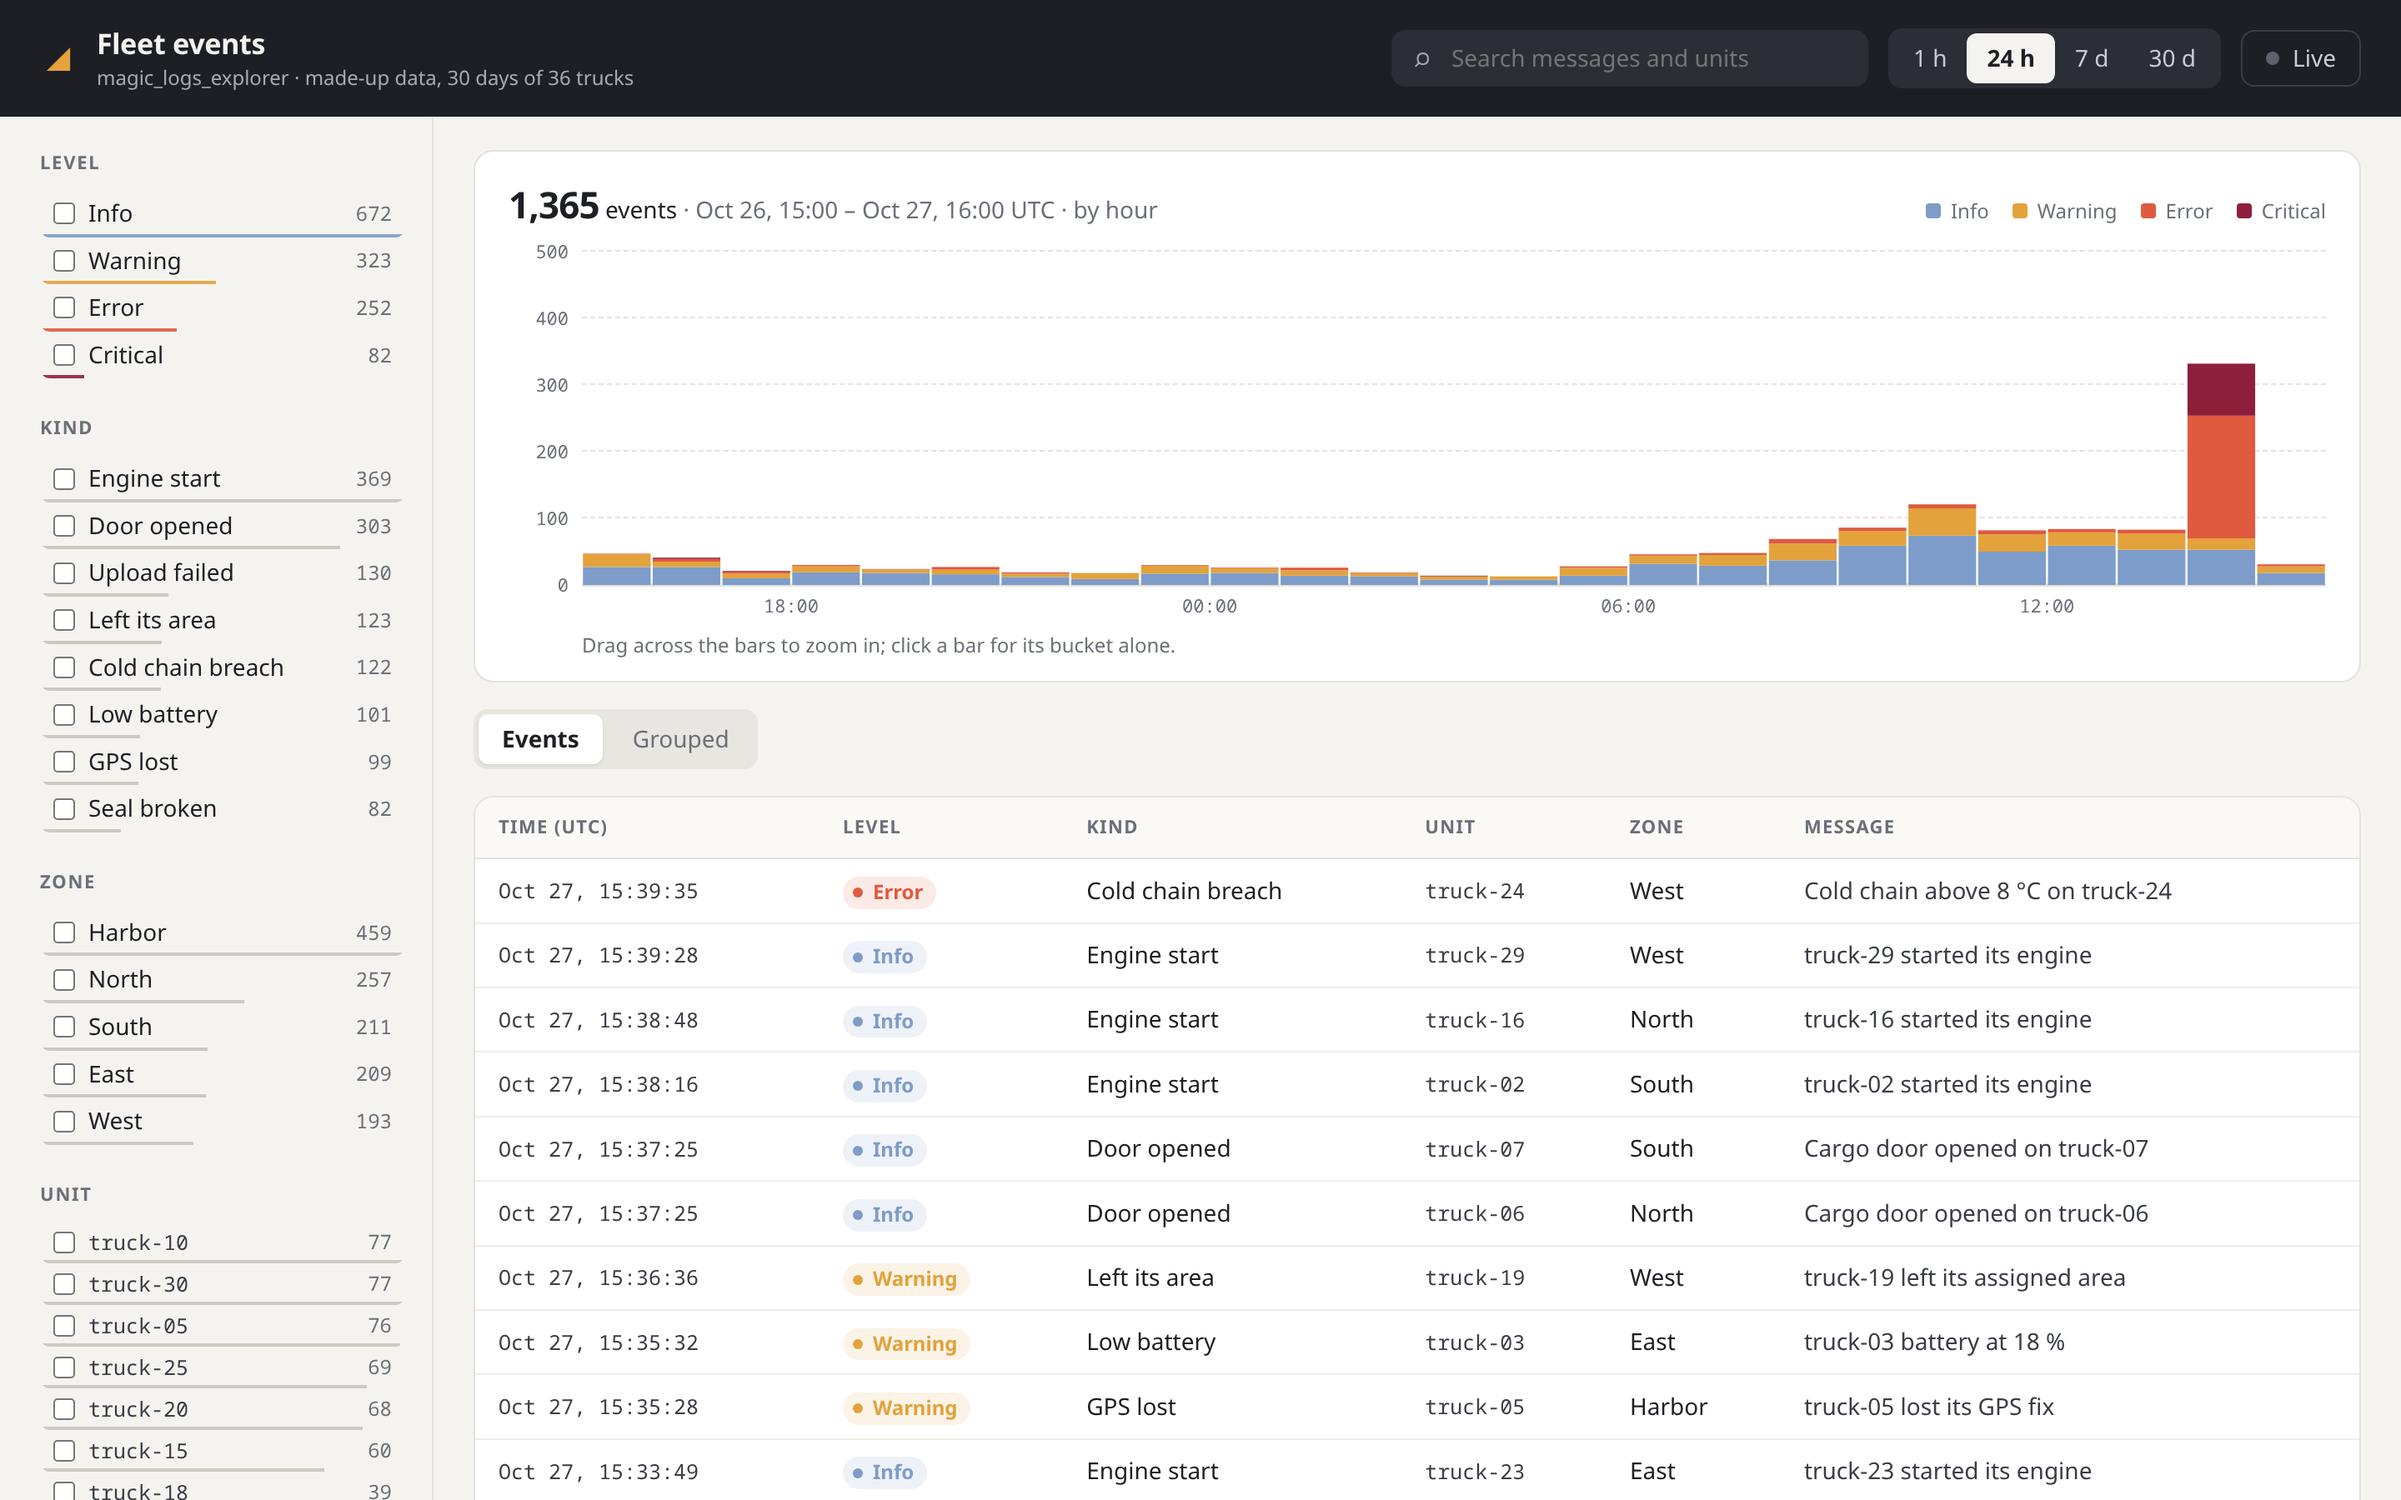
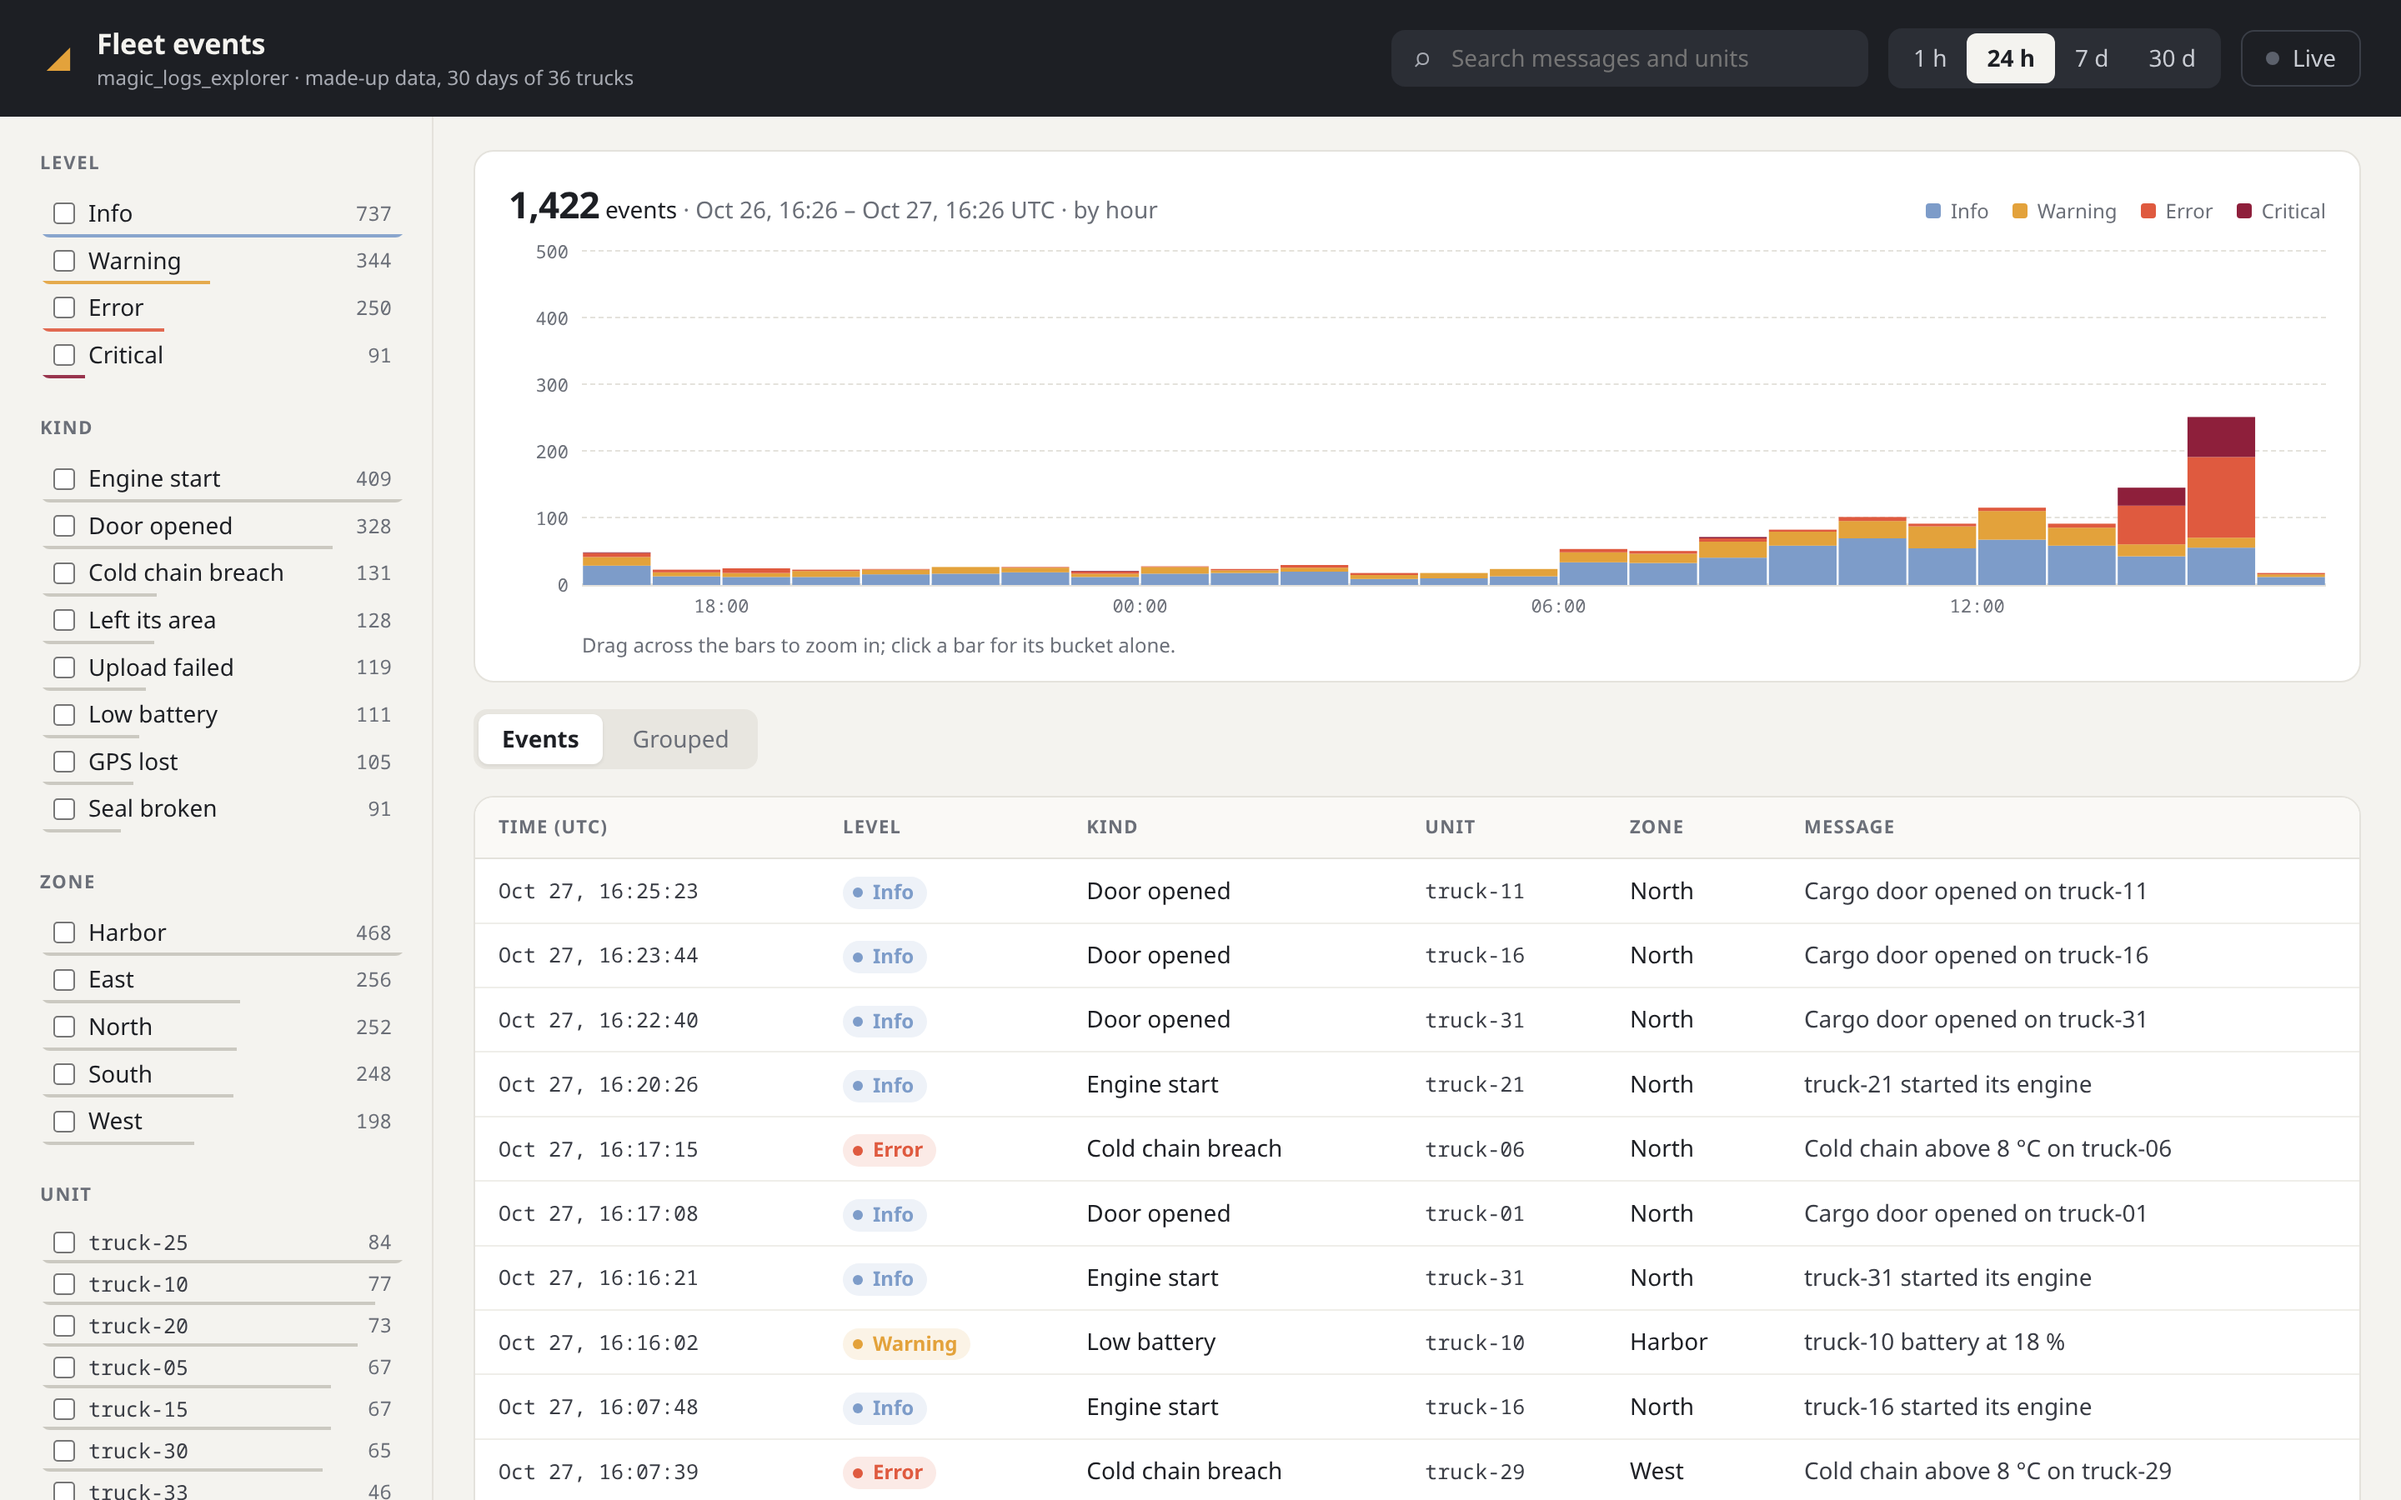
Review round 11: the last documentation errors
A whole-repository pass found nothing to block the release: every CI
check and the newcomer's path (README, the fleet, the demo) pass. What
it found in the documents:

- the explorer README's facets fetcher sent the facet names over the
  question's chosen values; they go as facets
- the window's count is a facet's sum, not the histogram's (whose
  whole buckets may reach past it); the demo's headline says so
- the README's links are absolute, as crates.io resolves them
- the cost of groups over a day is the exact one
- the fleet README's curl asks the last day, not a fixed month
- the contract tests skip in a packaged copy, which has no explorer

diff --git a/explorer/demo/Demo.vue b/explorer/demo/Demo.vue
@@ -63,6 +63,15 @@ const label = (s: string) => kindNames[s] ?? s
 
 // What the bars count: every filter applies (a facet's own count leaves
 // out its own field's filter).
+// The window's count, exactly: the level facet's sum — of the chosen
+// levels when some are, as the facet counts every level whatever is chosen
+// of it. (The bars count whole buckets, which may reach past the window.)
+const total = computed(() => {
+  const levelsChosen = explorer.fields.level.value
+  return answers.facets.value
+    .filter((f) => f.field === 'level' && (!levelsChosen.length || levelsChosen.includes(f.value ?? '')))
+    .reduce((n, f) => n + f.count, 0)
+})
 const stepNames: Record<string, string> = {
   minute: 'minute',
   fiveMinutes: 'five minutes',
@@ -162,9 +171,10 @@ const hovered = ref<number | null>(null)
                  from the start of the first bucket, which is counted whole. -->
             <div class="chart-head">
               <div>
-                <strong>{{ number.format(geometry.bars.reduce((n, b) => n + b.total, 0)) }}</strong> events
+                <strong>{{ number.format(total) }}</strong> events
                 <span class="muted">
-                  · {{ moment.format(geometry.range.from) }} – {{ moment.format(geometry.range.to) }} UTC
+                  · {{ moment.format(explorer.range.value.from) }} –
+                  {{ moment.format(explorer.range.value.to) }} UTC
                   <template v-if="answers.bucketsAnswer.value">
                     · by {{ stepNames[answers.bucketsAnswer.value.step.name] }}
                   </template>

diff --git a/magic_logs/tests/explorer.rs b/magic_logs/tests/explorer.rs
@@ -446,6 +446,10 @@ async fn the_json_an_explorer_reads_is_the_contract(pool: PgPool) {
         env!("CARGO_MANIFEST_DIR"),
         "/../explorer/src/core/contract/fixtures/answers.ts"
     );
+    // A packaged copy of the crate has no explorer beside it.
+    if !std::path::Path::new(concat!(env!("CARGO_MANIFEST_DIR"), "/../explorer")).exists() {
+        return;
+    }
     if std::env::var_os("UPDATE_CONTRACT").is_some() {
         std::fs::create_dir_all(std::path::Path::new(path).parent().unwrap()).unwrap();
         std::fs::write(path, &text).unwrap();

diff --git a/magic_logs/src/query.rs b/magic_logs/src/query.rs
@@ -637,6 +637,13 @@ mod json {
             env!("CARGO_MANIFEST_DIR"),
             "/../explorer/src/core/contract/rows.ts"
         );
+        // A packaged copy of the crate has no explorer beside it.
+        if !std::path::Path::new(path)
+            .parent()
+            .is_some_and(|p| p.exists())
+        {
+            return;
+        }
         if std::env::var_os("UPDATE_CONTRACT").is_some() {
             std::fs::write(path, &text).unwrap();
         }

diff --git a/README.md b/README.md
@@ -40,7 +40,7 @@ let bars: Vec<Bucket> = histogram(&Event::SPEC, &filter, Duration::days(1))?
     .await?;
 ```
 
-And [`magic_logs_explorer`](explorer/), the Vue 3 side without its looks:
+And [`magic_logs_explorer`](https://github.com/rsansores/magic_logs/tree/main/explorer/), the Vue 3 side without its looks:
 the window, the facets, the histogram's geometry and its brush, the pages
 — state in your URL, drawn by your own components.
 
@@ -58,7 +58,7 @@ the window, the facets, the histogram's geometry and its brush, the pages
   hypertable's unique keys must). Rows it already holds are moved into
   chunks by the migration, which holds the table locked for as long as
   that takes and needs room for a second copy while it does;
-  [operating it](HOW_IT_WORKS.md#operating-it) says what follows.
+  [operating it](https://github.com/rsansores/magic_logs/blob/main/HOW_IT_WORKS.md#operating-it) says what follows.
 
 ## Why
 
@@ -101,7 +101,7 @@ newest first, from an index.
   late recounts only the buckets it fell in.
 - **No retention of its own.** The counts are refreshed over all of
   history, so dropping old rows drops their counts at the next refresh:
-  drop both, or neither. [Operating it](HOW_IT_WORKS.md#operating-it) has
+  drop both, or neither. [Operating it](https://github.com/rsansores/magic_logs/blob/main/HOW_IT_WORKS.md#operating-it) has
   the rest.
 
 ## Defining a table
@@ -171,7 +171,7 @@ and one per `indexed` field and the `top`), the columnstore and its
 policy, the four counts with their refresh and compression policies —
 and, for each of the five relations (the table and its counts), whatever
 `govern` writes. Run it from your own
-migrations; the [golden copy](magic_logs/tests/golden/migration.sql) shows
+migrations; the [golden copy](https://github.com/rsansores/magic_logs/blob/main/magic_logs/tests/golden/migration.sql) shows
 what it writes.
 
 ```rust
@@ -194,7 +194,7 @@ it in parallel workers: a setting read as `(SELECT current_setting(…))`, a
 function marked `STABLE PARALLEL SAFE`. Measured on a month of hourly
 counts, four facets took 4.1 s through a predicate evaluated per row in one
 worker, and 0.46 s through one evaluated once, in parallel
-([how it works](HOW_IT_WORKS.md#governing)).
+([how it works](https://github.com/rsansores/magic_logs/blob/main/HOW_IT_WORKS.md#governing)).
 
 ## Asking
 
@@ -272,18 +272,18 @@ five warm runs.
 A day of rows is 4.2 GB before compression; the thirty days hold 17 GB in
 all, two uncompressed. What stays slow: a one-hour window at one-minute
 bars reads the rows (~270 ms), and a page deep inside compressed history
-decompresses its chunk (~2 s). [How it works](HOW_IT_WORKS.md#what-it-costs)
+decompresses its chunk (~2 s). [How it works](https://github.com/rsansores/magic_logs/blob/main/HOW_IT_WORKS.md#what-it-costs)
 has the rest, and what each number was before the fix it measures.
 
 ## Learn more
 
-- [How it works](HOW_IT_WORKS.md): the tables, the counts and their
+- [How it works](https://github.com/rsansores/magic_logs/blob/main/HOW_IT_WORKS.md): the tables, the counts and their
   refresh, which question reads what, governing, what it costs.
-- [`magic_logs_explorer`](explorer/): the Vue 3 explorer, without its looks,
+- [`magic_logs_explorer`](https://github.com/rsansores/magic_logs/tree/main/explorer/): the Vue 3 explorer, without its looks,
   and its demo.
-- [`examples/fleet`](examples/fleet/): a server over TimescaleDB, its reads
+- [`examples/fleet`](https://github.com/rsansores/magic_logs/tree/main/examples/fleet/): a server over TimescaleDB, its reads
   governed by zone, that the demo reads.
-- [The changelog](CHANGELOG.md), and [how to contribute](CONTRIBUTING.md).
+- [The changelog](https://github.com/rsansores/magic_logs/blob/main/CHANGELOG.md), and [how to contribute](https://github.com/rsansores/magic_logs/blob/main/CONTRIBUTING.md).
 
 ## Status
 

diff --git a/HOW_IT_WORKS.md b/HOW_IT_WORKS.md
@@ -121,8 +121,10 @@ the second, in the form TimescaleDB excludes chunks — and compressed
 segments — by: without it, a page in history opens every chunk newer than
 its cursor. Page fifty costs what page one costs. An id type the host's
 column has (`uuid`, `bigint`) is cast from the cursor's text, so the cursor
-crosses an HTTP boundary as a string. There is no total: a count of the
-window is the histogram's sum.
+crosses an HTTP boundary as a string. There is no total: the window's
+count is any facet's sum (the level's, with nothing chosen of it — or the
+chosen values' counts when something is). The histogram's sum counts the
+whole buckets the window touches, which may reach past it.
 
 ## Governing
 
@@ -166,8 +168,13 @@ buffers; p50 of five warm runs, milliseconds, read through governed views.
 | a page of 100 | 0.5 | 1.1 | 2.0 | 8.4 |
 | histogram (hourly, then daily from 7 days) | 14 | 46 | 17 | — |
 | four facets (daily from 3 days) | 30 | — | 33 | — |
-| grouped, top 50 | 48 | 125 | 303 | 282 |
+| grouped, top 50 | ~230¹ | 125 | 303 | 282 |
 | a page of one kind and level, with the kind `indexed` | 2 | — | — | 66 |
+
+¹ Exact since groups are counted in parts: from the counts per hour and
+`top` and the rows at the window's edges, measured without the governed
+view (whole days of the daily counts per `top` took 48 ms, and counted
+outside the window).
 
 Storage: an uncompressed day is 4.2 GB, of which 1.3 GB is index;
 compressed, 0.4 GB. Thirty days, two of them uncompressed, are 17 GB. The

diff --git a/explorer/README.md b/explorer/README.md
@@ -43,7 +43,7 @@ import {
 const explorer = useLogExplorer({ fields: ['level', 'kind', 'unit'], store: urlStore() })
 const answers = useLogFetch<MyEvent>(explorer, {
   histogram: (q, step, signal) => get('/events/histogram', { ...q, step: step.name }, signal),
-  facets: (q, fields, signal) => get('/events/facets', { ...q, fields }, signal),
+  facets: (q, names, signal) => get('/events/facets', { ...q, facets: names }, signal),
   page: (q, cursor, signal) => get('/events', { ...q, cursor }, signal),
   grouped: (q, signal) => get('/events/grouped', q, signal),
 })

diff --git a/examples/fleet/README.md b/examples/fleet/README.md
@@ -36,7 +36,9 @@ and open http://localhost:5198/?server.
     bars among them — answered 400.
 
 ```sh
-curl -H 'x-zones: Harbor' "localhost:3001/api/facets?from=2026-10-01T00:00:00Z&to=2026-10-31T00:00:00Z"
+# The last day, as the harbor's dispatcher sees it (GNU date; macOS: date -u -v-1d).
+from=$(date -u -d '1 day ago' +%FT%TZ) to=$(date -u +%FT%TZ)
+curl -H 'x-zones: Harbor' "localhost:3001/api/facets?from=$from&to=$to"
 ```
 
 `DATABASE_URL` points the server elsewhere, and `FLEET_LISTEN`
